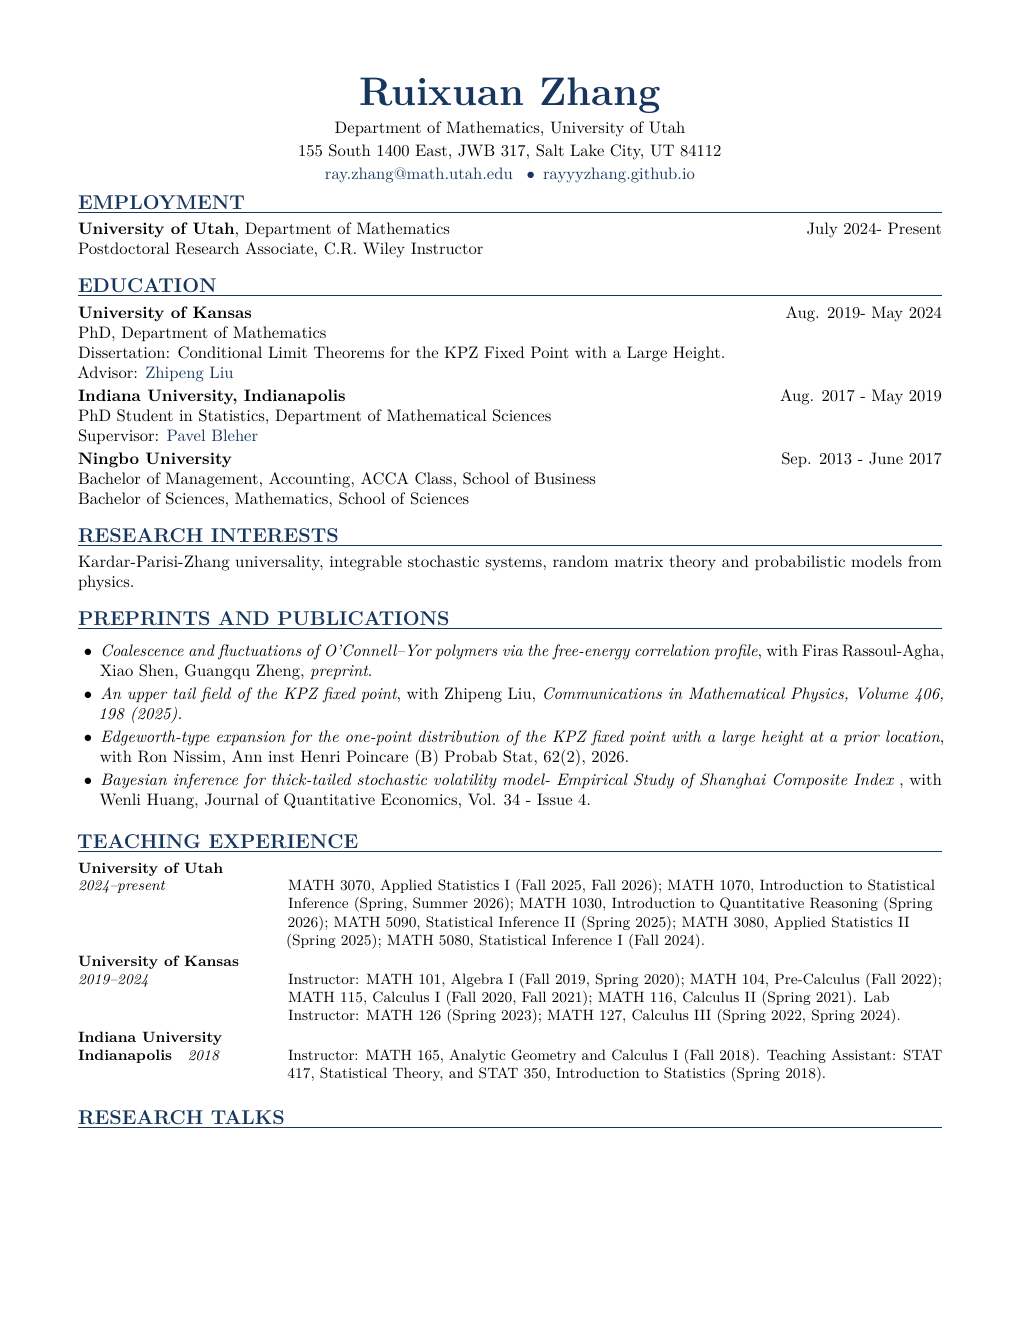
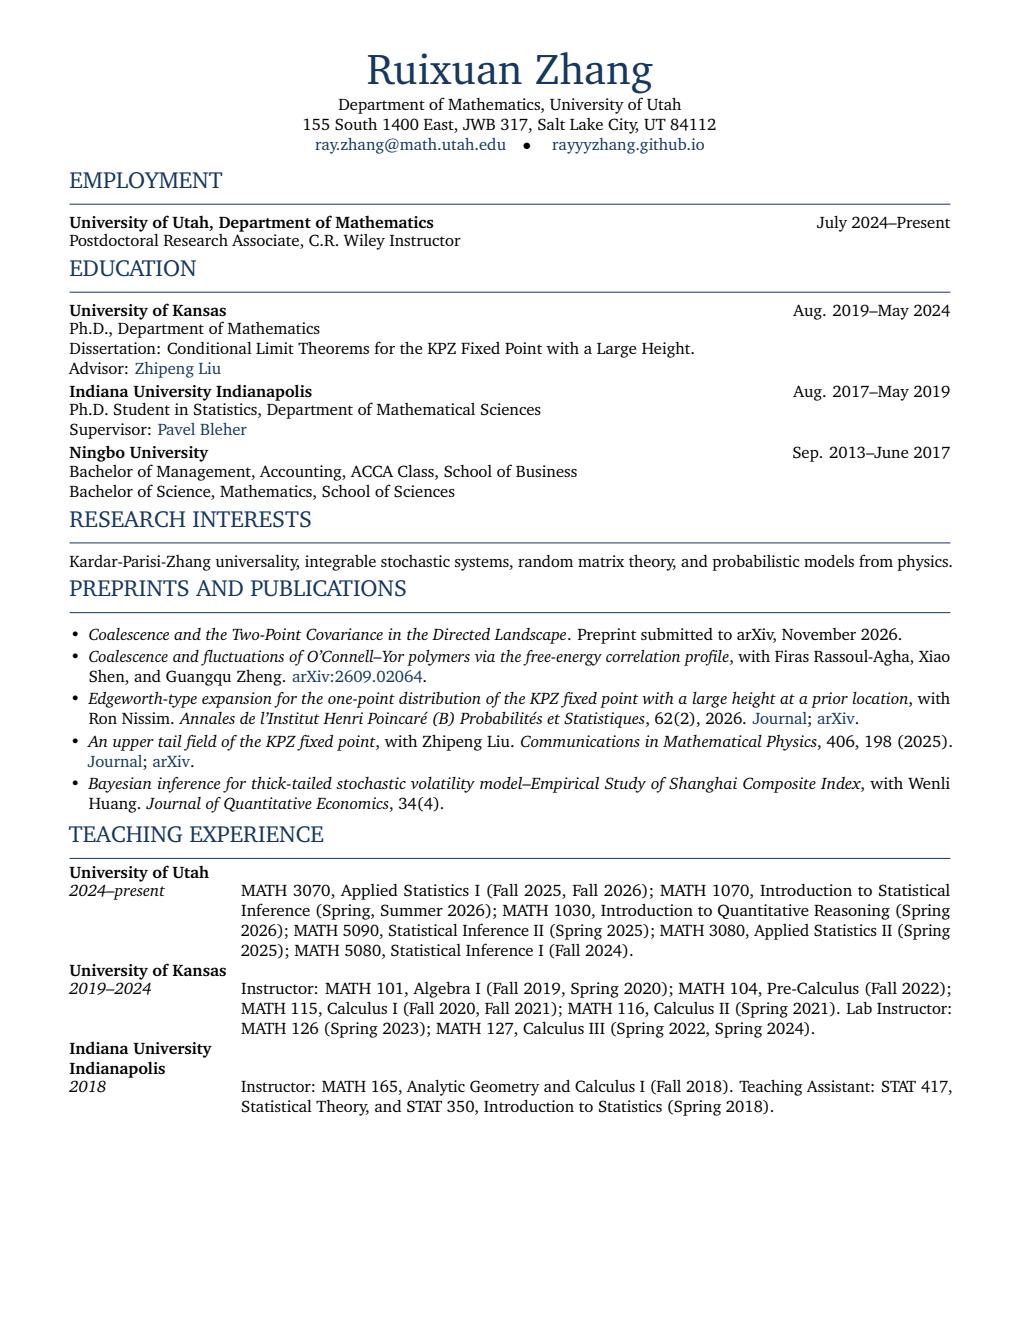
Add directed landscape preprint to research page and CV

diff --git a/research.html b/research.html
@@ -15,6 +15,7 @@
   I work in integrable probability and mathematical physics, with a focus on models in the Kardar–Parisi–Zhang universality class. My research concerns interacting particle systems, percolation, and random polymers, especially their fluctuations, long-time asymptotics, large deviations, correlations, and path geometry. I use both integrable techniques and probabilistic methods, and am also interested in random matrix theory and related models in statistical mechanics.</p>    
     <h2>Publications and preprints</h2>
     <ul>
+      <li><em>Coalescence and the Two-Point Covariance in the Directed Landscape</em>. Preprint submitted to arXiv, November 2026.</li>
       <li><em>The KPZ Upper-Tail Field as a KPZ Fixed Point with Brownian Initial Data</em>. <a href="https://arxiv.org/abs/2609.26424">arXiv</a>(In submission).</li>
       <li><em>A Stein Proof of the Burke Property for the Stationary O'Connell-Yor Polymer</em>. <a href="http://arxiv.org/abs/2609.18214">arXiv</a>(Submitted).</li>
       <li><em>Coalescence and fluctuations of O'Connell--Yor polymers via the free-energy correlation profile</em>, with <a href="https://www.math.utah.edu/~firas/">Firas Rassoul-Agha</a>, <a href="https://www.xshen.org/">Xiao Shen</a>, and <a href="https://sites.bu.edu/gzheng90/">Guangqu Zheng</a>.  <a href="https://arxiv.org/abs/2609.02064">arXiv</a> (Submitted).</li> 

diff --git a/index.html b/index.html
@@ -15,7 +15,7 @@
         <p class="lead">I am a Postdoctoral Research Associate under the C.R. Wiley Instructorship in the <a href="https://www.math.utah.edu/">Department of Mathematics, University of Utah</a>. I obtained my Ph.D. in Mathematics from the <a href="https://mathematics.ku.edu/">University of Kansas</a> in 2024 under the supervision of <a href="https://zhipengliumath.github.io/">Zhipeng Liu</a>.</p>
         <p>I am organizing the <a href="https://www.math.utah.edu/Stochastics/Seminar/">Stochastics Seminar</a> at the University of Utah.</p>
         <p>Outside of mathematics, I enjoy cooking, hiking, and skiing.</p>
-        <p><a class="button" href="cv.pdf?v=20260905-service">View CV</a></p>
+        <p><a class="button" href="cv.pdf?v=20261122">View CV</a></p>
         <section class="callout"><h2>Contact information</h2><p>You can reach me at ray [dot] zhang at math.utah.edu.<br>Address: 155 S 1400 E, JWB 317, Salt Lake City, UT 84112.</p></section>
       </div>
       <figure class="profile-figure">
